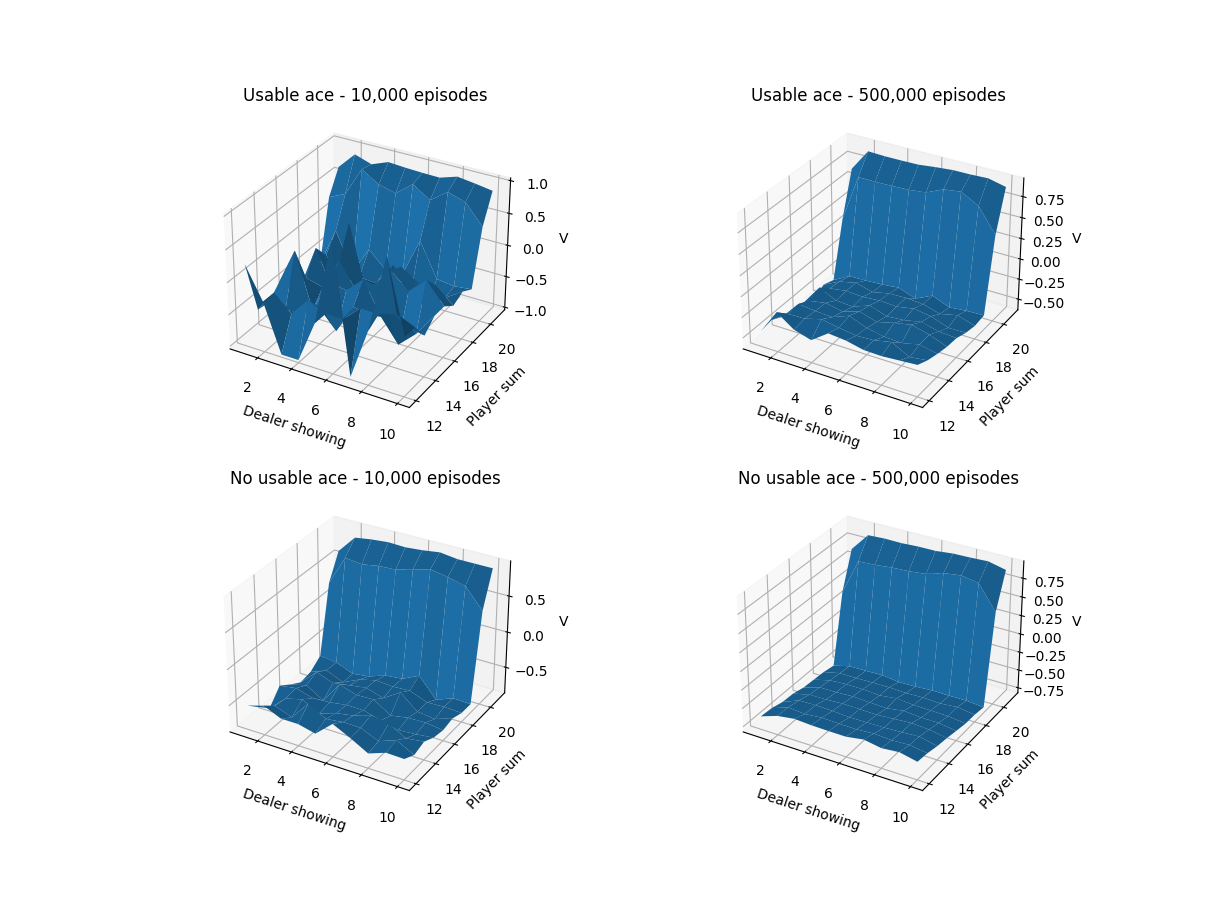
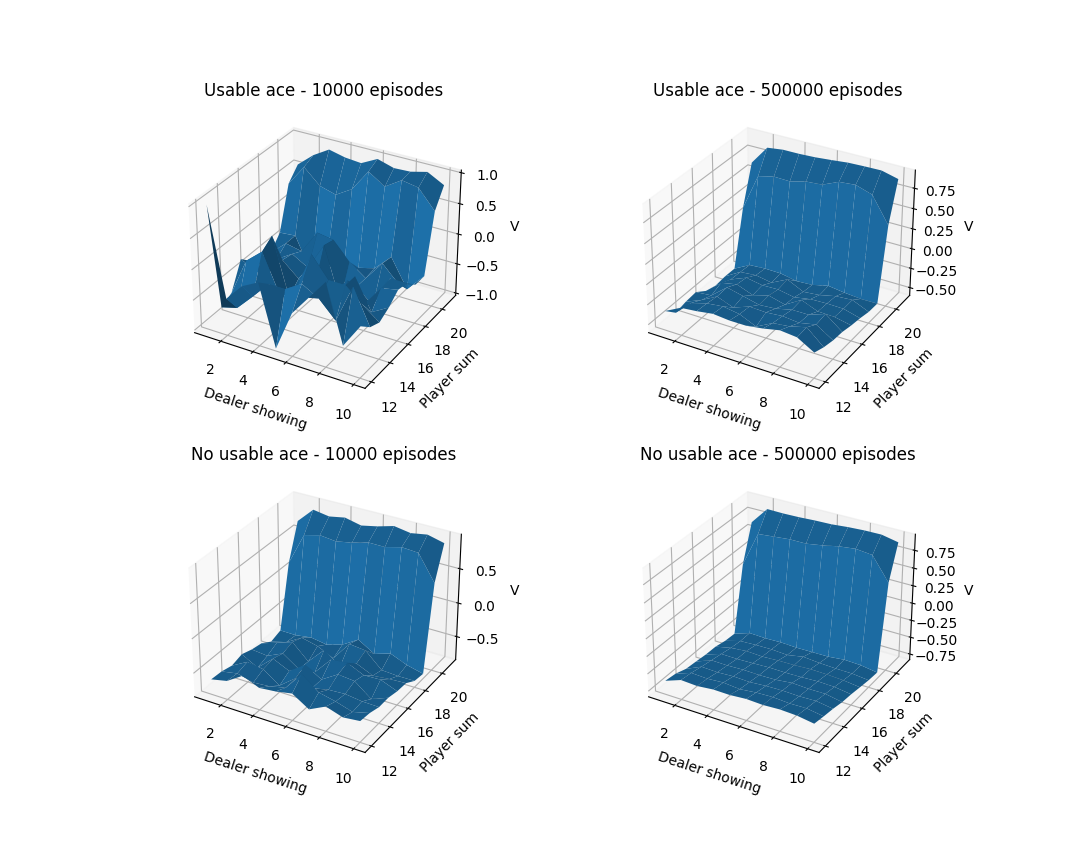
5.3 Blackjack Recreation

diff --git a/Part-I/5. Monte Carlo Methods/5.1 Blackjack/main.py b/Part-I/5. Monte Carlo Methods/5.1 Blackjack/main.py
@@ -14,6 +14,24 @@ class TrivialAgent(object):
         _, player_sum, _ = state
         return 0 if player_sum < self.stick_after else 1
 
+def plot(id, array, title, fig):
+    x_grid, y_grid = np.meshgrid(np.arange(1, 11), np.arange(12, 22))
+    ax = fig.add_subplot(2, 2, id, projection='3d')
+    ax.plot_surface(x_grid, y_grid, array.transpose()) # notice that array needs to be transposed
+    ax.set_xlabel('Dealer showing')
+    ax.set_ylabel('Player sum')
+    ax.set_zlabel('V')
+    ax.set(title=title)
+
+def get_v_arrays(V):
+    v_array_ace = np.zeros((10, 10))
+    v_array_no_ace = np.zeros((10, 10))
+    for dealer_card in range(1, 11):
+        for player_sum in range(12, 22):
+            v_array_ace[dealer_card - 1, player_sum - 12] = V[(dealer_card, player_sum, True)]
+            v_array_no_ace[dealer_card - 1, player_sum - 12] = V[(dealer_card, player_sum, False)]
+    return (v_array_ace, v_array_no_ace)
+
 # PARAMETERS
 EPISODES_1 = 10000
 EPISODES_2 = 500000
@@ -22,55 +40,17 @@ AGENT = TrivialAgent(stick_after=20)
 GAMMA = 1.0
 
 if __name__ == '__main__':
+    fig = plt.figure()
     # EPISODES_1
     V, N = monte_carlo_v_prediction(ENVIRONMENT, AGENT, GAMMA, max_iterations=EPISODES_1)
-
-    v_array_ace = np.zeros((10, 10))
-    v_array_no_ace = np.zeros((10, 10))
-    for dealer_card in range(1, 11):
-        for player_sum in range(12, 22):
-            v_array_ace[dealer_card - 1, player_sum - 12] = V[(dealer_card, player_sum, True)]
-            v_array_no_ace[dealer_card - 1, player_sum - 12] = V[(dealer_card, player_sum, False)]
-    x_grid, y_grid = np.meshgrid(np.arange(1, 11), np.arange(12, 22))
-
-    fig = plt.figure()
-    ax = fig.add_subplot(2, 2, 1, projection='3d')
-    ax.plot_surface(x_grid, y_grid, v_array_ace.transpose()) # notice that v_array needs to be transposed
-    ax.set_xlabel('Dealer showing')
-    ax.set_ylabel('Player sum')
-    ax.set_zlabel('V')
-    ax.set(title='Usable ace - ' + str(EPISODES_1) + ' episodes')
-
-    ax = fig.add_subplot(2, 2, 3, projection='3d')
-    ax.plot_surface(x_grid, y_grid, v_array_no_ace.transpose())
-    ax.set_xlabel('Dealer showing')
-    ax.set_ylabel('Player sum')
-    ax.set_zlabel('V')
-    ax.set(title='No usable ace - ' + str(EPISODES_1) + ' episodes')
+    v_array_ace, v_array_no_ace = get_v_arrays(V)
+    plot(1, v_array_ace, 'Usable ace - ' + str(EPISODES_1) + ' episodes', fig)
+    plot(3, v_array_no_ace, 'No usable ace - ' + str(EPISODES_1) + ' episodes', fig)
 
     # EPISODES_2
     V, N = monte_carlo_v_prediction(ENVIRONMENT, AGENT, GAMMA, max_iterations=EPISODES_2 - EPISODES_1, start_V=V, start_N=N)
-
-    v_array_ace = np.zeros((10, 10))
-    v_array_no_ace = np.zeros((10, 10))
-    for dealer_card in range(1, 11):
-        for player_sum in range(12, 22):
-            v_array_ace[dealer_card - 1, player_sum - 12] = V[(dealer_card, player_sum, True)]
-            v_array_no_ace[dealer_card - 1, player_sum - 12] = V[(dealer_card, player_sum, False)]
-    x_grid, y_grid = np.meshgrid(np.arange(1, 11), np.arange(12, 22))
-
-    ax = fig.add_subplot(2, 2, 2, projection='3d')
-    ax.plot_surface(x_grid, y_grid, v_array_ace.transpose()) # notice that v_array needs to be transposed
-    ax.set_xlabel('Dealer showing')
-    ax.set_ylabel('Player sum')
-    ax.set_zlabel('V')
-    ax.set(title='Usable ace - ' + str(EPISODES_2) + ' episodes')
-
-    ax = fig.add_subplot(2, 2, 4, projection='3d')
-    ax.plot_surface(x_grid, y_grid, v_array_no_ace.transpose())
-    ax.set_xlabel('Dealer showing')
-    ax.set_ylabel('Player sum')
-    ax.set_zlabel('V')
-    ax.set(title='No usable ace - ' + str(EPISODES_2) + ' episodes')
+    v_array_ace, v_array_no_ace = get_v_arrays(V)
+    plot(2, v_array_ace, 'Usable ace - ' + str(EPISODES_2) + ' episodes', fig)
+    plot(4, v_array_no_ace, 'No usable ace - ' + str(EPISODES_2) + ' episodes', fig)
 
     plt.show()

diff --git a/Part-I/5. Monte Carlo Methods/5.3 Blackjack Control/main.py b/Part-I/5. Monte Carlo Methods/5.3 Blackjack Control/main.py
@@ -1,0 +1,66 @@
+import numpy as np
+import matplotlib.pyplot as plt
+
+import sys, os
+sys.path.insert(1, os.path.join(sys.path[0], '..'))
+from utility.environments import *
+from utility.policy_iteration import *
+
+class BlackjackDeterministicAgent(object):
+    def __call__(self, Q, state):
+        hit_value = Q[(state, 0)]
+        stick_value = Q[(state, 1)]
+        return 0 if hit_value > stick_value else 1
+
+# PARAMETERS
+EPISODES = 50000000
+ENVIRONMENT = SimplifiedBlackjack()
+AGENT = BlackjackDeterministicAgent() # unlike the book our initial policy is arbitrary
+GAMMA = 1.0
+
+if __name__ == '__main__':
+    fig = plt.figure()
+    x_grid, y_grid = np.meshgrid(np.arange(1, 11), np.arange(12, 22))
+
+    Q, _ = monte_carlo_exploring_starts(ENVIRONMENT, AGENT, GAMMA, max_iterations=EPISODES)
+
+    # V
+    v_array_ace = np.zeros((10, 10))
+    v_array_no_ace = np.zeros((10, 10))
+    for dealer_card in range(1, 11):
+        for player_sum in range(12, 22):
+            v_array_ace[dealer_card - 1, player_sum - 12] = Q[((dealer_card, player_sum, True), AGENT(Q, (dealer_card, player_sum, True)))]
+            v_array_no_ace[dealer_card - 1, player_sum - 12] = Q[((dealer_card, player_sum, False), AGENT(Q, (dealer_card, player_sum, False)))]
+
+    for id, array, title in zip([2, 4], [v_array_ace, v_array_no_ace], ['V - usable ace', 'V - no usable ace']):
+        ax = fig.add_subplot(2, 2, id, projection='3d')
+        ax.plot_surface(x_grid, y_grid, array.transpose(), cmap='viridis', edgecolor='none') # notice that v_array needs to be transposed
+        ax.set_xlabel('Dealer showing')
+        ax.set_ylabel('Player sum')
+        ax.set_zlabel('V')
+        ax.set(title=title)
+
+    # PI
+    pi_array_ace = np.zeros((10, 10))
+    pi_array_no_ace = np.zeros((10, 10))
+    for dealer_card in range(1, 11):
+        for player_sum in range(12, 22):
+            pi_array_ace[player_sum - 12, dealer_card - 1] = AGENT(Q, (dealer_card, player_sum, True))
+            pi_array_no_ace[player_sum - 12, dealer_card - 1] = AGENT(Q, (dealer_card, player_sum, False))
+    # The figure in the book also displays the action for when the player_sum is 11, even though that is not a "valid" state as
+    # previously defined. Therefore I will just stack a row of zeros in front of PI. You will always hit when your sum is 11 anyway.
+    pi_array_ace = np.vstack((np.zeros((1, 10)), pi_array_ace))
+    pi_array_no_ace = np.vstack((np.zeros((1, 10)), pi_array_no_ace))
+
+    for id, array, title in zip([1, 3], [pi_array_ace, pi_array_no_ace], ['PI - usable ace', 'PI - no usable ace']):
+        ax = fig.add_subplot(2, 2, id)
+        img = ax.imshow(array, interpolation='none', origin='lower')
+        ax.set(title=title)
+        ax.set_yticks([0, 1, 2, 3, 4, 5, 6, 7, 8, 9, 10])
+        ax.set_yticklabels(['11', '12', '13', '14', '15', '16', '17', '18', '19', '20', '21'])
+        ax.set_xticks([0, 1, 2, 3, 4, 5, 6, 7, 8, 9])
+        ax.set_xticklabels(['A', '2', '3', '4', '5', '6', '7', '8', '9', '10'])
+        cbar = plt.colorbar(img, ax=ax, ticks=[0, 1])
+        cbar.ax.set_yticklabels(['Hit', 'Stick'])
+
+    plt.show()

diff --git a/Part-I/5. Monte Carlo Methods/utility/policy_iteration.py b/Part-I/5. Monte Carlo Methods/utility/policy_iteration.py
@@ -31,3 +31,33 @@ def monte_carlo_v_prediction(env, agent, gamma, max_iterations, start_V=defaultd
             V[states[i]] += (1.0 / N[states[i]]) * (G - V[states[i]])
 
     return (V, N)
+
+def monte_carlo_exploring_starts(env, agent, gamma, max_iterations, start_Q=defaultdict(lambda: 0.0), start_N=defaultdict(lambda: 0)):
+    '''
+    Unlike the pseudo-code in 5.3, this is both every-visit MC and it uses running averages (as described in Ch. 2, 
+    and requested in Exercise 5.4) in order to not keep track of all of the returns.
+    The agent should be callable but could be stochastic. Its parameters should be the state and the estimated Q-function.
+    '''
+    Q = start_Q
+    N = start_N
+    
+    for i in tqdm(range(max_iterations)):
+        s, a = env.exploring_starts_reset()
+        states = [s]
+        actions = [a]
+        rewards = []
+        terminal = False
+        while not terminal:
+            next_state, reward, terminal, _ = env.step(actions[-1])
+            if not terminal:
+                states.append(next_state)
+                actions.append(agent(Q, states[-1]))
+            rewards.append(reward)
+        assert len(states) == len(actions) == len(rewards), 'The sequence of experience have different lengths'
+        G = 0
+        for i in reversed(range(len(actions))):
+            G = gamma * G + rewards[i]
+            N[(states[i], actions[i])] += 1
+            Q[(states[i], actions[i])] += (1.0 / N[(states[i], actions[i])]) * (G - Q[(states[i], actions[i])])
+
+    return (Q, start_N)

diff --git a/Part-I/5. Monte Carlo Methods/utility/environments.py b/Part-I/5. Monte Carlo Methods/utility/environments.py
@@ -60,6 +60,18 @@ class SimplifiedBlackjack(Environment):
 
         return (self.dealer_card, self.player_sum, self.usable_ace)
 
+    def exploring_starts_reset(self):
+        '''
+        This is used by exploring starts methods to give non-zero probability to starting in any state-action pair 
+        (in this case equal probability).
+        '''
+        self.dealer_card = np.random.choice(np.arange(1, 11))
+        self.usable_ace = np.random.rand() < 0.5
+        self.player_sum = np.random.choice(np.arange(12, 22))
+        action = np.random.choice(np.arange(0, 2))
+
+        return ((self.dealer_card, self.player_sum, self.usable_ace), action)
+
     def _draw_card(self):
         return min(10, np.random.choice(np.arange(1, 14)))
 
